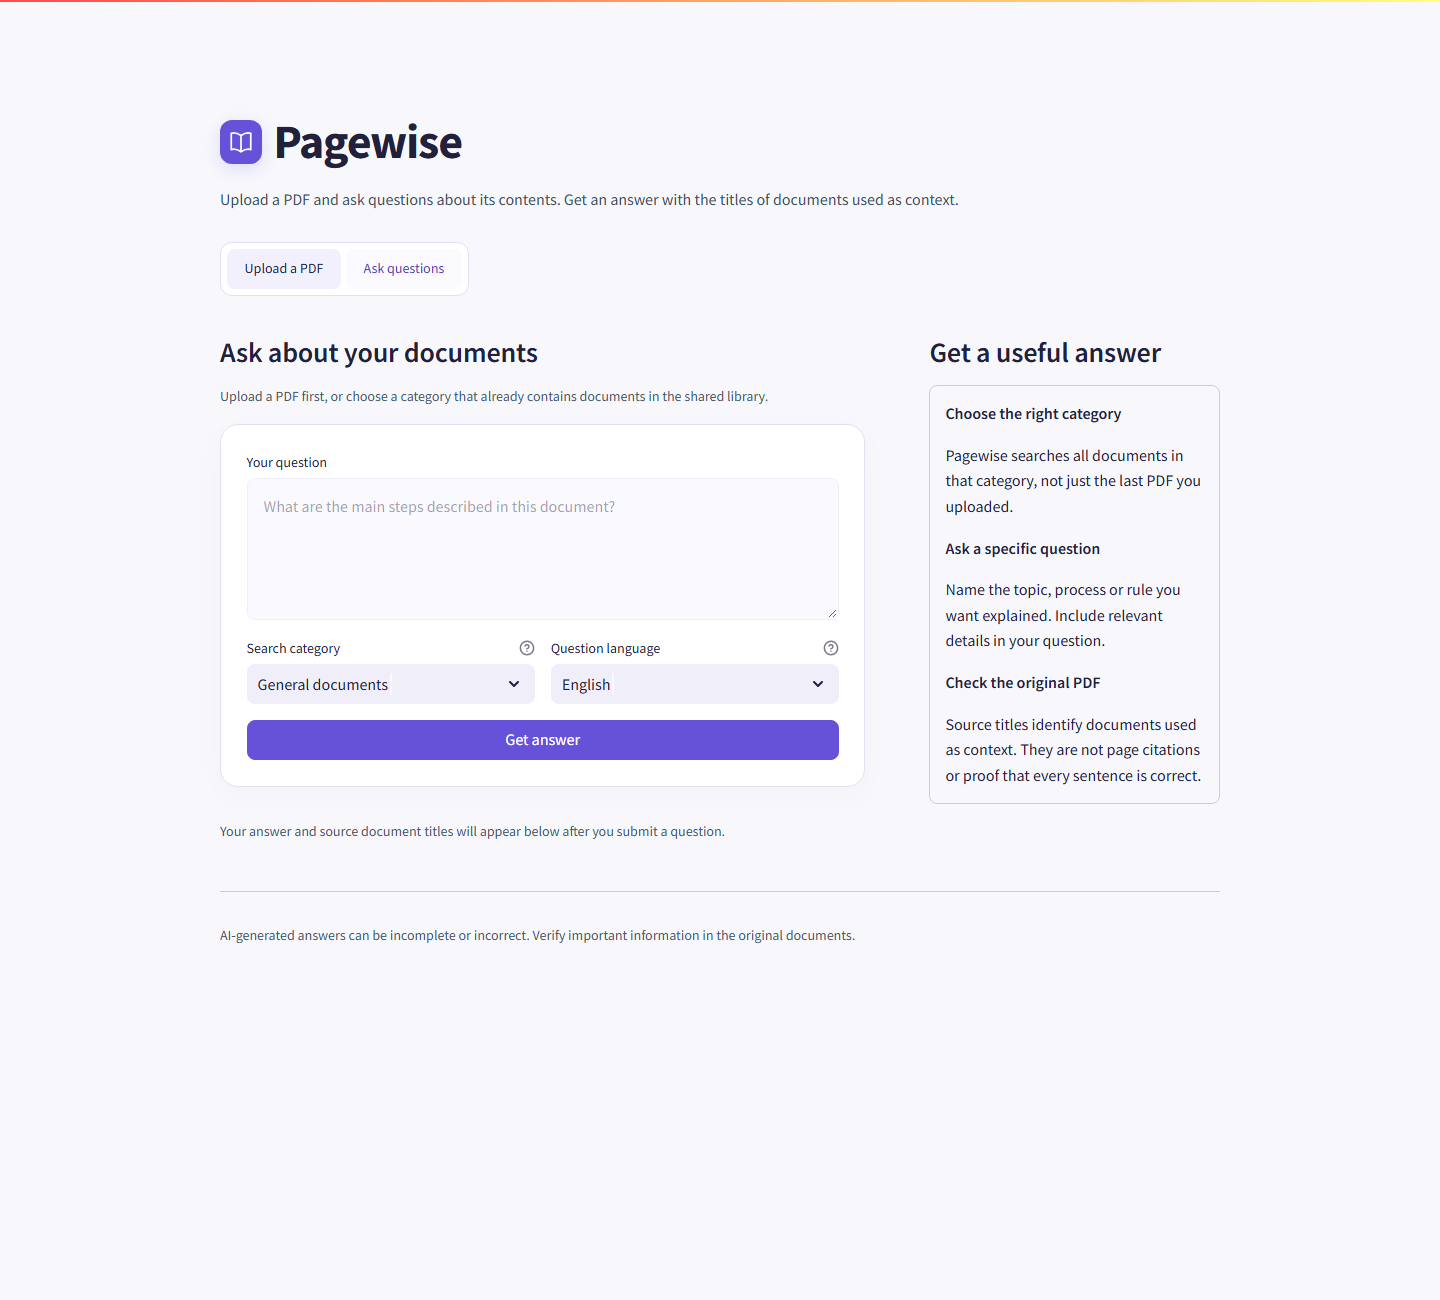
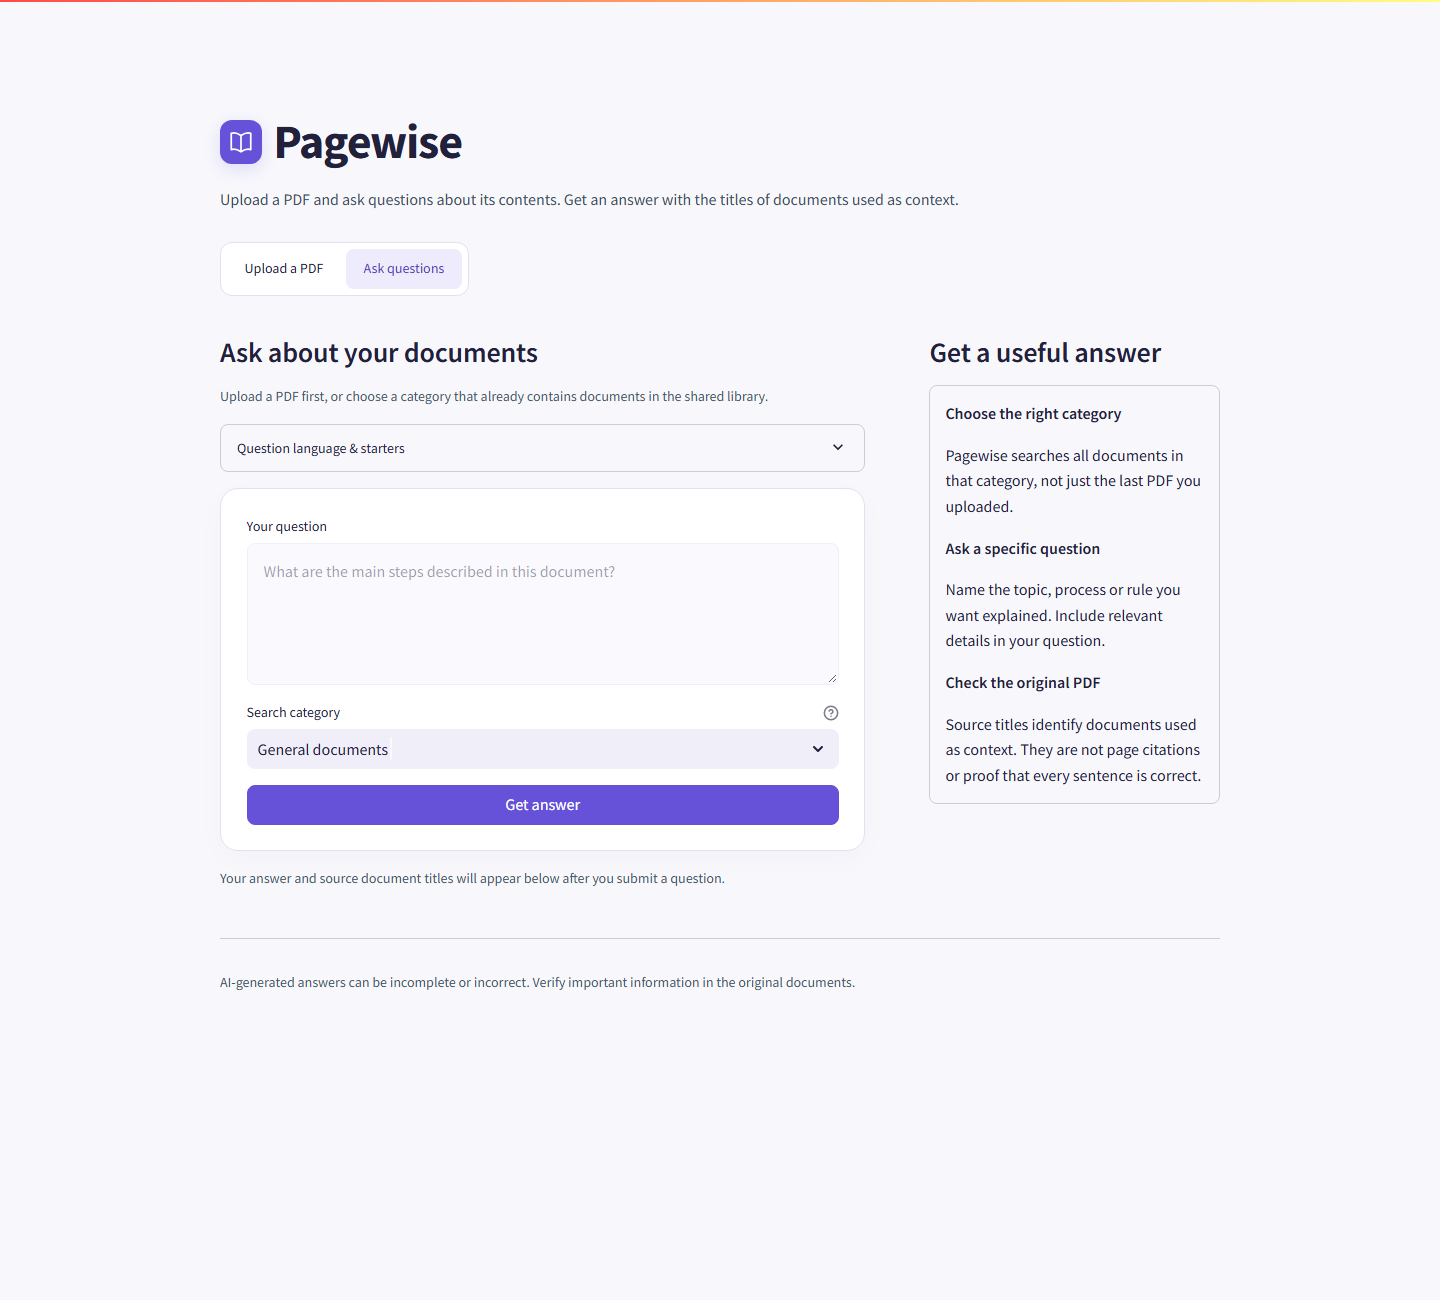
Document verified live session tools and backend recovery

diff --git a/docs/VALIDATION.md b/docs/VALIDATION.md
@@ -170,3 +170,23 @@ Browser fixture checks passed at 390x844, 768x1024 and 1440x1500: upload, starte
 selection, keyboard submission, actual answer download, saved-answer restore and
 history clearing. The downloaded file retained the original question after an
 unsubmitted draft edit, and included the response and source title.
+
+The clarity update `d060d7f` passed GitHub CI and public phone/tablet/desktop
+checks for upload-first navigation, question validation, browser title and page
+overflow. The frontend health endpoint returned HTTP 200. Public upload and
+question screenshots were refreshed. This frontend-only release does not
+revalidate external provider availability or full accessibility conformance.
+
+Session tools release `723f5d0` passed GitHub CI (40 tests). Public browser
+verification used one generated PDF and a real Gemini answer: a starter filled
+the question, the Markdown download retained the submitted question after a
+draft edit and contained the correct seven-readings answer and source title,
+saved-answer restore repopulated the question, and clear removed the history and
+displayed answer. The generated document was deleted and absence confirmed.
+
+Initial backend readiness/liveness requests timed out. The service was not
+suspended; logs showed shutdown. A restart request did not restore responses,
+so the existing verified backend commit was redeployed on the same free plan.
+Fresh liveness/readiness requests and the complete public workflow then passed.
+This recovery does not establish always-on reliability or resolve cold-start
+limits. No backend source, provider configuration or existing documents changed.

diff --git a/docs/DEPLOYMENT.md b/docs/DEPLOYMENT.md
@@ -5,7 +5,7 @@
 Three Render Docker web services were deployed on 8 November 2026 in Singapore,
 all with `plan: free`, using the Render API. Existing unrelated services were
 preserved. The agent runs `2873bfd38f98646141ec6f6ae65f5e21cad142e6`. The frontend
-runs interface update `93d6921b1742babc764af9092d3039d9ff081c62`. The unchanged translator runs
+runs interface update `723f5d0af4444012f7eb79f625c7a137580903bc`. The unchanged translator runs
 `0e62affe945def11068fce93a97093595b7b75d3`.
 
 | Component | Public endpoint |
